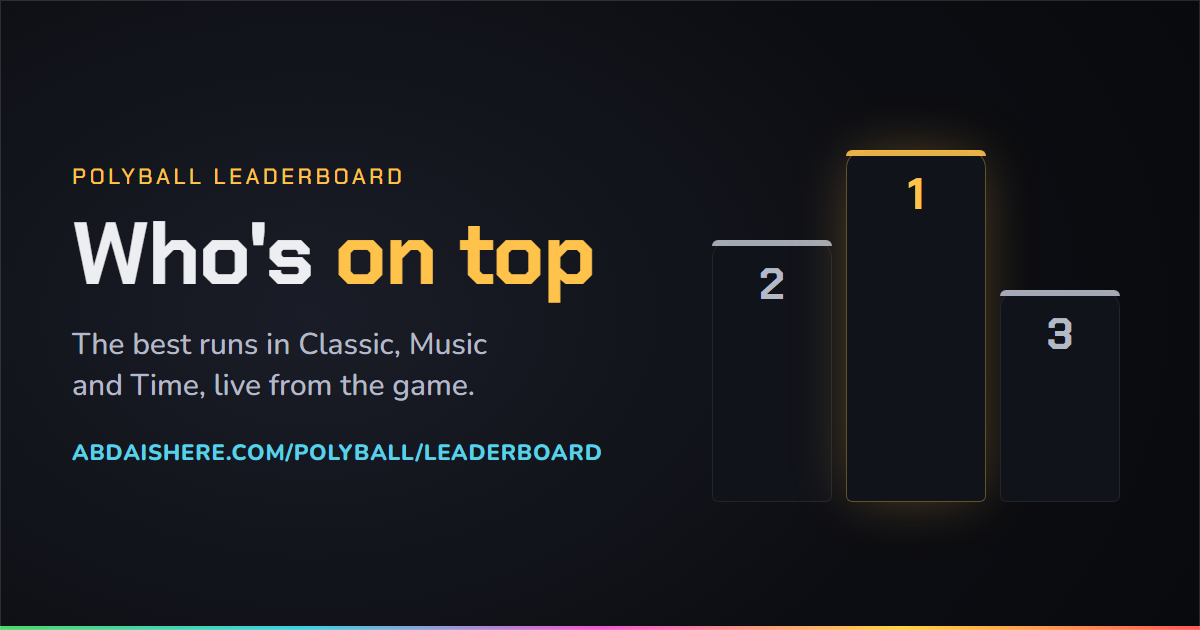
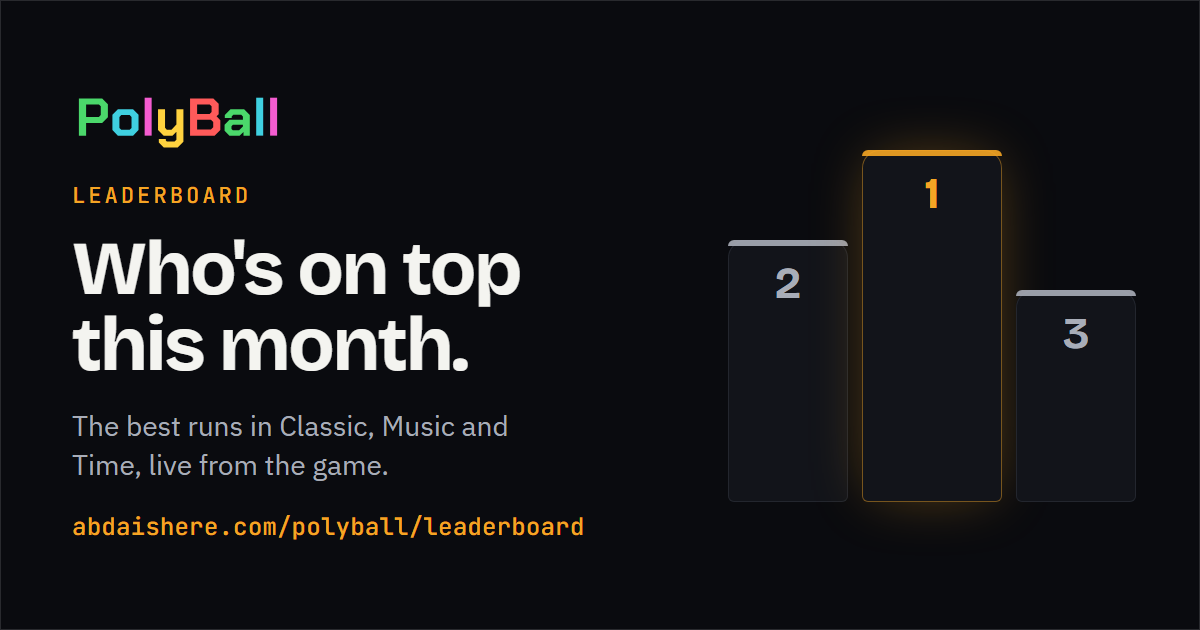
site: publish landing page, privacy policy, deletion page, and app-ads.txt

diff --git a/polyball/index.html b/polyball/index.html
@@ -23,14 +23,14 @@
 <meta property="og:description" content="Drop the ball on its own colour. Every catch makes the next one faster. One miss, and only one way back.">
 <!-- Absolute, not relative: every scraper (Facebook, Slack, Discord, X, LinkedIn) silently drops a
      relative og:image. PNG, not WebP: Facebook and LinkedIn do not render a WebP og:image. -->
-<meta property="og:image" content="https://abdaishere.com/img/og/polyball.png">
+<meta property="og:image" content="https://abdaishere.com/img/og/polyball.png?v=4">
 <meta property="og:image:type" content="image/png">
 <meta property="og:image:width" content="1200">
 <meta property="og:image:height" content="630">
-<meta property="og:image:alt" content="PolyBall: the five-colour neon ring, the wordmark, the line Every note you hear, you played. One miss ends the run. Free on Android, play in your browser.">
+<meta property="og:image:alt" content="PolyBall: the wordmark, the line Every note you hear, you played., Catch the ball on its colour and the music builds, one note at a time. Free on Android, browser and desktop. The five-colour neon ring on the right.">
 <meta name="twitter:card" content="summary_large_image">
-<meta name="twitter:image" content="https://abdaishere.com/img/og/polyball.png">
-<meta name="twitter:image:alt" content="PolyBall: the five-colour neon ring and the line Every note you hear, you played.">
+<meta name="twitter:image" content="https://abdaishere.com/img/og/polyball.png?v=4">
+<meta name="twitter:image:alt" content="PolyBall: Every note you hear, you played. The five-colour neon ring beside it.">
 
 <!-- Everything this page loads: site.css, boot.js, site.js, page.js, board.js, self-hosted woff2,
      one Supabase origin (read-only leaderboard), the game in a same-origin frame, and the trailer
@@ -40,7 +40,7 @@
 <script type="application/ld+json">
 {"@context":"https://schema.org","@type":"VideoGame","name":"PolyBall","url":"https://abdaishere.com/polyball/",
 "description":"A colour-matching arcade game. Rotate the ring so the ball lands on its own colour. Every catch plays a note, so each run composes its own soundtrack. One miss ends the run.",
-"image":"https://abdaishere.com/img/og/polyball.png","genre":["Arcade","Casual","Music"],
+"image":"https://abdaishere.com/img/og/polyball.png?v=4","genre":["Arcade","Casual","Music"],
 "gamePlatform":["Android","Web browser","Windows","macOS","Linux"],"applicationCategory":"GameApplication",
 "playMode":"SinglePlayer","inLanguage":"en",
 "offers":{"@type":"Offer","price":"0","priceCurrency":"USD"},

diff --git a/polyball/leaderboard/index.html b/polyball/leaderboard/index.html
@@ -16,14 +16,14 @@
 <meta property="og:site_name" content="PolyBall">
 <meta property="og:title" content="PolyBall leaderboard: who's on top">
 <meta property="og:description" content="The best runs in Classic, Music and Time, live from the game.">
-<meta property="og:image" content="https://abdaishere.com/img/og/leaderboard.png?v=3">
+<meta property="og:image" content="https://abdaishere.com/img/og/leaderboard.png?v=4">
 <meta property="og:image:type" content="image/png">
 <meta property="og:image:width" content="1200">
 <meta property="og:image:height" content="630">
-<meta property="og:image:alt" content="PolyBall leaderboard: Who's on top. The best runs in Classic, Music and Time, live from the game. A three-step podium with first place in gold.">
+<meta property="og:image:alt" content="PolyBall leaderboard: Who's on top this month. The best runs in Classic, Music and Time, live from the game. A three-step podium with first place lit in amber.">
 <meta name="twitter:card" content="summary_large_image">
-<meta name="twitter:image" content="https://abdaishere.com/img/og/leaderboard.png?v=3">
-<meta name="twitter:image:alt" content="PolyBall leaderboard: Who's on top. A three-step podium with first place in gold.">
+<meta name="twitter:image" content="https://abdaishere.com/img/og/leaderboard.png?v=4">
+<meta name="twitter:image:alt" content="PolyBall leaderboard: Who's on top this month. A three-step podium, first place in amber.">
 <meta http-equiv="Content-Security-Policy" content="default-src 'none'; script-src 'self'; style-src 'self' 'unsafe-inline'; font-src 'self'; img-src 'self' data:; connect-src https://osnwwrpkyvcflfcixwmw.supabase.co; base-uri 'none'; form-action 'none'">
 <link rel="preload" href="/fonts/nunito-var.woff2" as="font" type="font/woff2" crossorigin>
 <link rel="preload" href="/fonts/chakra-petch-700.woff2" as="font" type="font/woff2" crossorigin>

diff --git a/delete.html b/delete.html
@@ -11,14 +11,14 @@
 <meta property="og:site_name" content="PolyBall">
 <meta property="og:title" content="Delete your PolyBall data">
 <meta property="og:description" content="How to delete your PolyBall data: reset progress on the device, or email to remove your leaderboard and analytics rows within 30 days.">
-<meta property="og:image" content="https://abdaishere.com/img/og/policy.png">
+<meta property="og:image" content="https://abdaishere.com/img/og/policy.png?v=4">
 <meta property="og:image:type" content="image/png">
 <meta property="og:image:width" content="1200">
 <meta property="og:image:height" content="630">
-<meta property="og:image:alt" content="PolyBall: Privacy and your data. What the game keeps, what it never sees, how to delete it.">
+<meta property="og:image:alt" content="PolyBall: Privacy and your data. What the game keeps, what it never sees, and how to delete it. Beside it: accounts none, sign-in never asked, analytics has an off switch in Settings.">
 <meta name="twitter:card" content="summary_large_image">
-<meta name="twitter:image" content="https://abdaishere.com/img/og/policy.png">
-<meta name="twitter:image:alt" content="PolyBall: Privacy and your data. What the game keeps, what it never sees, how to delete it.">
+<meta name="twitter:image" content="https://abdaishere.com/img/og/policy.png?v=4">
+<meta name="twitter:image:alt" content="PolyBall: Privacy and your data. What the game keeps, what it never sees, and how to delete it. Beside it: accounts none, sign-in never asked, analytics has an off switch in Settings.">
 <link rel="icon" href="/favicon.ico" sizes="48x48">
 <link rel="icon" href="/img/favicon.svg?v=2" type="image/svg+xml">
 <link rel="icon" href="/img/favicon-32.png?v=2" type="image/png" sizes="32x32">

diff --git a/privacy.html b/privacy.html
@@ -11,14 +11,14 @@
 <meta property="og:site_name" content="PolyBall">
 <meta property="og:title" content="PolyBall privacy policy">
 <meta property="og:description" content="What PolyBall keeps on your device, the two anonymous records it can hold on its servers, and how to delete them.">
-<meta property="og:image" content="https://abdaishere.com/img/og/policy.png">
+<meta property="og:image" content="https://abdaishere.com/img/og/policy.png?v=4">
 <meta property="og:image:type" content="image/png">
 <meta property="og:image:width" content="1200">
 <meta property="og:image:height" content="630">
-<meta property="og:image:alt" content="PolyBall: Privacy and your data. What the game keeps, what it never sees, how to delete it.">
+<meta property="og:image:alt" content="PolyBall: Privacy and your data. What the game keeps, what it never sees, and how to delete it. Beside it: accounts none, sign-in never asked, analytics has an off switch in Settings.">
 <meta name="twitter:card" content="summary_large_image">
-<meta name="twitter:image" content="https://abdaishere.com/img/og/policy.png">
-<meta name="twitter:image:alt" content="PolyBall: Privacy and your data. What the game keeps, what it never sees, how to delete it.">
+<meta name="twitter:image" content="https://abdaishere.com/img/og/policy.png?v=4">
+<meta name="twitter:image:alt" content="PolyBall: Privacy and your data. What the game keeps, what it never sees, and how to delete it. Beside it: accounts none, sign-in never asked, analytics has an off switch in Settings.">
 <link rel="icon" href="/favicon.ico" sizes="48x48">
 <link rel="icon" href="/img/favicon.svg?v=2" type="image/svg+xml">
 <link rel="icon" href="/img/favicon-32.png?v=2" type="image/png" sizes="32x32">

diff --git a/press/index.html b/press/index.html
@@ -19,14 +19,14 @@
 <meta property="og:site_name" content="PolyBall">
 <meta property="og:title" content="PolyBall press kit">
 <meta property="og:description" content="Fact sheet, screenshots, logos and the story of an arcade game that writes its own soundtrack.">
-<meta property="og:image" content="https://abdaishere.com/img/og/press.png">
+<meta property="og:image" content="https://abdaishere.com/img/og/press.png?v=4">
 <meta property="og:image:type" content="image/png">
 <meta property="og:image:width" content="1200">
 <meta property="og:image:height" content="630">
-<meta property="og:image:alt" content="PolyBall press kit: the neon ring mark, the wordmark, and the line Fact sheet, screenshots, logos and the icon. Free to use in coverage.">
+<meta property="og:image:alt" content="PolyBall press kit: Everything for coverage. Fact sheet, screenshots, logos and the icon, in one zip. Free to use. The neon ring mark beside it.">
 <meta name="twitter:card" content="summary_large_image">
-<meta name="twitter:image" content="https://abdaishere.com/img/og/press.png">
-<meta name="twitter:image:alt" content="PolyBall press kit: the neon ring mark and the wordmark.">
+<meta name="twitter:image" content="https://abdaishere.com/img/og/press.png?v=4">
+<meta name="twitter:image:alt" content="PolyBall press kit: Everything for coverage, in one zip.">
 <!-- No scripts at all on this page. Fonts and images are same-origin. -->
 <meta http-equiv="Content-Security-Policy" content="default-src 'none'; style-src 'unsafe-inline'; font-src 'self'; img-src 'self'; base-uri 'none'; form-action 'none'">
 <style>

diff --git a/polyball/play/index.html b/polyball/play/index.html
@@ -99,13 +99,13 @@ body {
 <meta property='og:site_name' content='PolyBall'>
 <meta property='og:title' content='Play PolyBall in your browser'>
 <meta property='og:description' content='Drop the ball on its own colour. Every catch makes the next one faster. One miss ends the run. No download.'>
-<meta property='og:image' content='https://abdaishere.com/img/og/play.png'>
+<meta property='og:image' content='https://abdaishere.com/img/og/play.png?v=4'>
 <meta property='og:image:type' content='image/png'>
 <meta property='og:image:width' content='1200'>
 <meta property='og:image:height' content='630'>
-<meta property='og:image:alt' content='PolyBall: the five-colour neon ring and the line Play in your browser. Drop the ball on its own colour. One miss ends the run.'>
+<meta property='og:image:alt' content='PolyBall: Play it right here, in the browser. Nothing to install. Catch the ball on its colour. One miss ends the run. The five-colour neon ring beside it.'>
 <meta name='twitter:card' content='summary_large_image'>
-<meta name='twitter:image' content='https://abdaishere.com/img/og/play.png'>
+<meta name='twitter:image' content='https://abdaishere.com/img/og/play.png?v=4'>
 <script>
 // Godot's web Sample playback fakes loops: on 'ended' it starts a new source (a gap)
 // from the FIRST play()'s offset, so the looping bed drifted and clicked every 19.2 s.
